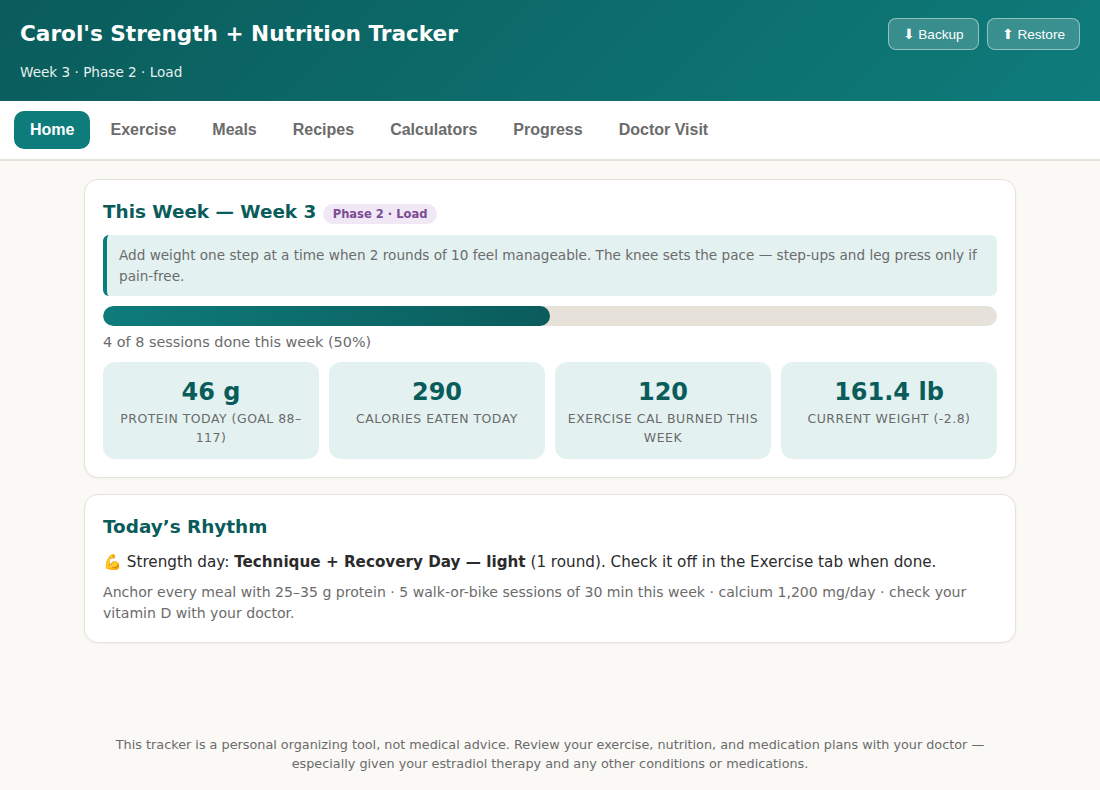
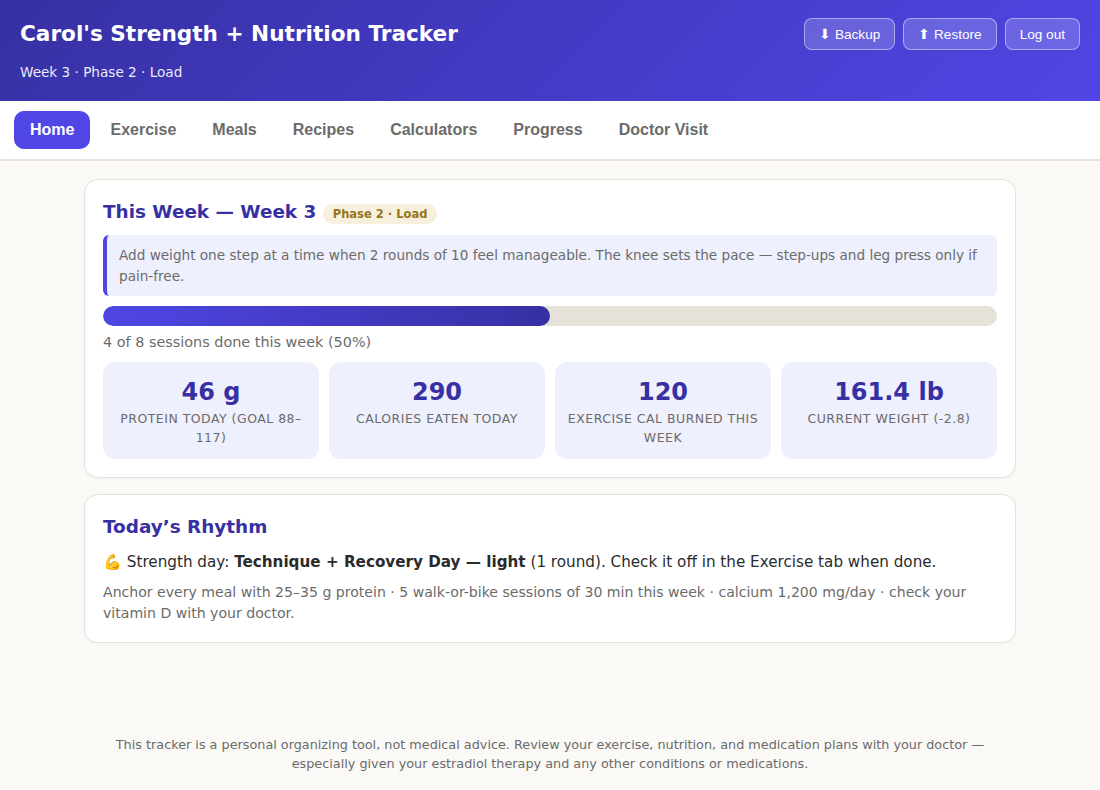
Recolor from teal/plum to indigo/mustard
Swaps --accent (teal -> indigo) and --plum (purple -> mustard/ochre)
in the app's CSS and the hardcoded canvas chart colors, keeping the
existing gold warning/goal color untouched so it stays visually
distinct from the new mustard secondary. Also updates the README's
banner/feature-map graphics and regenerates the real app screenshots
to match.

diff --git a/strength-nutrition-tracker.html b/strength-nutrition-tracker.html
@@ -6,8 +6,8 @@
 <title>Carol's Strength + Nutrition Tracker</title>
 <style>
 :root{
-  --accent:#0e7c7b; --accent-dark:#0a5c5b; --accent-light:#e3f2f1;
-  --plum:#7b4b94; --plum-light:#f0e8f5;
+  --accent:#4f46e5; --accent-dark:#3730a3; --accent-light:#eef0fd;
+  --plum:#96751a; --plum-light:#f7f0dc;
   --bg:#faf9f6; --card:#ffffff; --ink:#2b2b2b; --muted:#6b6b6b;
   --line:#e6e2da; --good:#2e7d32; --warn:#c62828; --gold:#c9a227;
 }
@@ -1064,9 +1064,9 @@ function drawWeightChart(){
   for(let g=0;g<=4;g++){ const v=lo+(hi-lo)*g/4, yy=y(v);
     ctx.beginPath(); ctx.moveTo(pad.l,yy); ctx.lineTo(W-pad.r,yy); ctx.stroke();
     ctx.fillText(v.toFixed(1), pad.l-6, yy+4); }
-  ctx.strokeStyle="#0e7c7b"; ctx.lineWidth=2.5; ctx.beginPath();
+  ctx.strokeStyle="#4f46e5"; ctx.lineWidth=2.5; ctx.beginPath();
   ws.forEach((w,i)=>{ i?ctx.lineTo(x(i),y(w.lbs)):ctx.moveTo(x(i),y(w.lbs)); }); ctx.stroke();
-  ctx.fillStyle="#0e7c7b";
+  ctx.fillStyle="#4f46e5";
   ws.forEach((w,i)=>{ ctx.beginPath(); ctx.arc(x(i),y(w.lbs),4,0,7); ctx.fill(); });
   ctx.fillStyle="#888"; ctx.textAlign="center";
   ctx.fillText(fmtDate(ws[0].date), x(0)+14, H-8);
@@ -1106,13 +1106,13 @@ function drawBarsChart(id, days, series, targetLine, emptyText){
 function drawProteinChart(){
   const days = last14();
   const vals = days.map(d=>S.meals.filter(m=>m.date===d).reduce((a,m)=>a+(+m.protein||0),0));
-  drawBarsChart("chartProtein", days, [{name:"Protein (g)", values:vals, color:"#0e7c7b"}], proteinRange()[0], "Log meals to see your daily protein here");
+  drawBarsChart("chartProtein", days, [{name:"Protein (g)", values:vals, color:"#4f46e5"}], proteinRange()[0], "Log meals to see your daily protein here");
 }
 function drawCalsChart(){
   const days = last14();
   const eaten = days.map(d=>S.meals.filter(m=>m.date===d).reduce((a,m)=>a+(+m.cals||0),0));
   const burned = days.map(d=>S.activities.filter(a=>a.date===d).reduce((a,x)=>a+x.kcal,0));
-  drawBarsChart("chartCals", days, [{name:"Eaten",values:eaten,color:"#7b4b94"},{name:"Burned (exercise)",values:burned,color:"#0e7c7b"}], null, "Log meals and activities to compare calories in vs. out");
+  drawBarsChart("chartCals", days, [{name:"Eaten",values:eaten,color:"#96751a"},{name:"Burned (exercise)",values:burned,color:"#4f46e5"}], null, "Log meals and activities to compare calories in vs. out");
 }
 function drawWorkoutsChart(){
   const n = Math.min(totalWeeks(), Math.max(currentWeek(),8));
@@ -1127,7 +1127,7 @@ function drawWorkoutsChart(){
   for(let g=0;g<=4;g++){ const v=hi*g/4, yy=y(v); ctx.beginPath(); ctx.moveTo(pad.l,yy); ctx.lineTo(W-pad.r,yy); ctx.stroke(); ctx.fillText(Math.round(v),pad.l-6,yy+4); }
   const slot=(W-pad.l-pad.r)/n;
   vals.forEach((v,i)=>{
-    ctx.fillStyle = (i+1===currentWeek()) ? "#c9a227" : "#0e7c7b";
+    ctx.fillStyle = (i+1===currentWeek()) ? "#c9a227" : "#4f46e5";
     if (v>0) ctx.fillRect(pad.l+slot*i+slot*0.2, y(v), slot*0.6, (H-pad.b)-y(v));
     ctx.fillStyle="#888"; ctx.textAlign="center";
     if (n<=16 || i%2===0) ctx.fillText(labels[i], pad.l+slot*i+slot/2, H-8);
